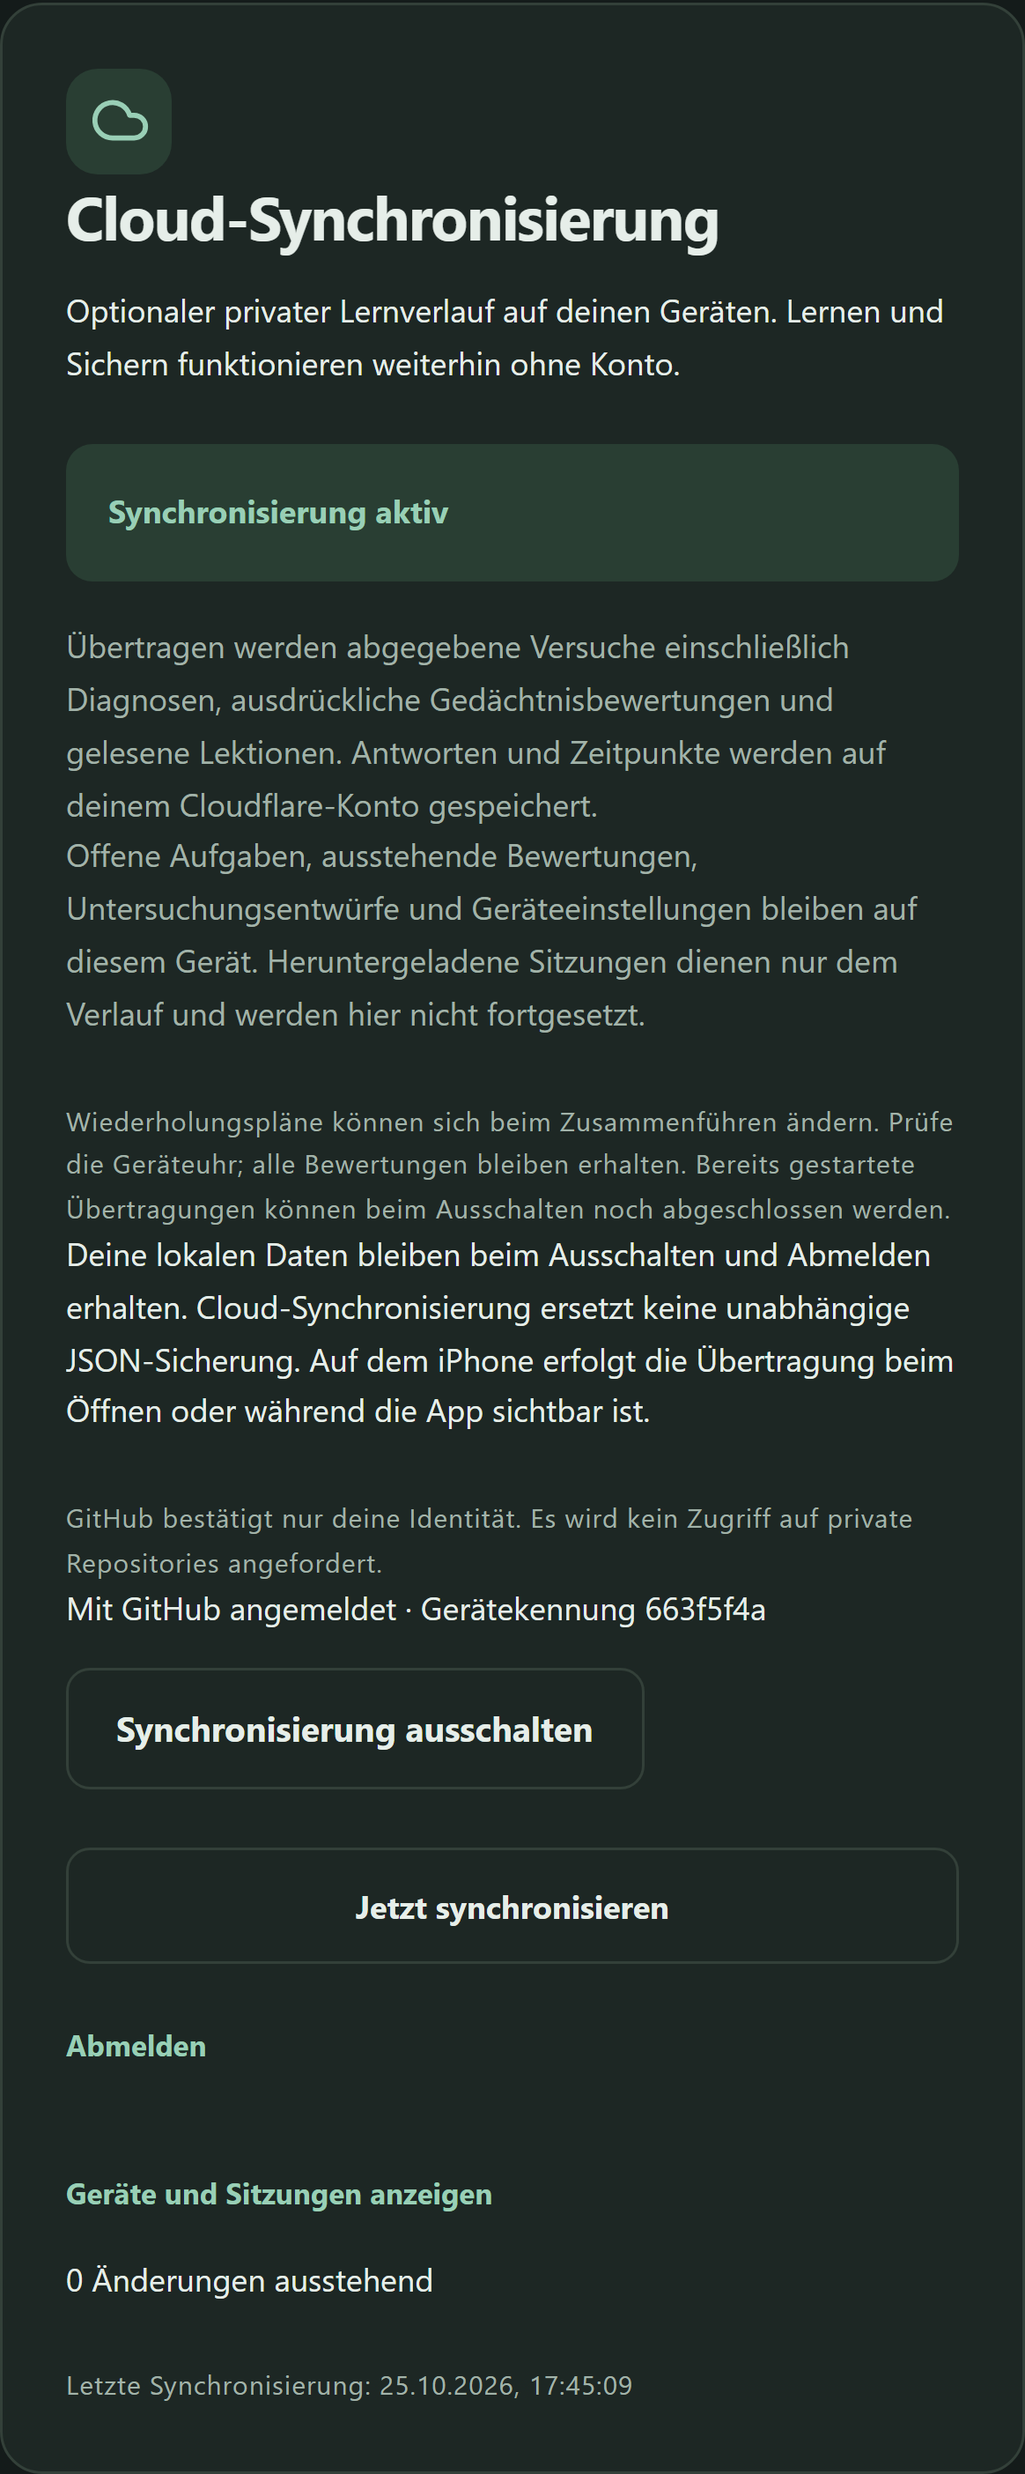
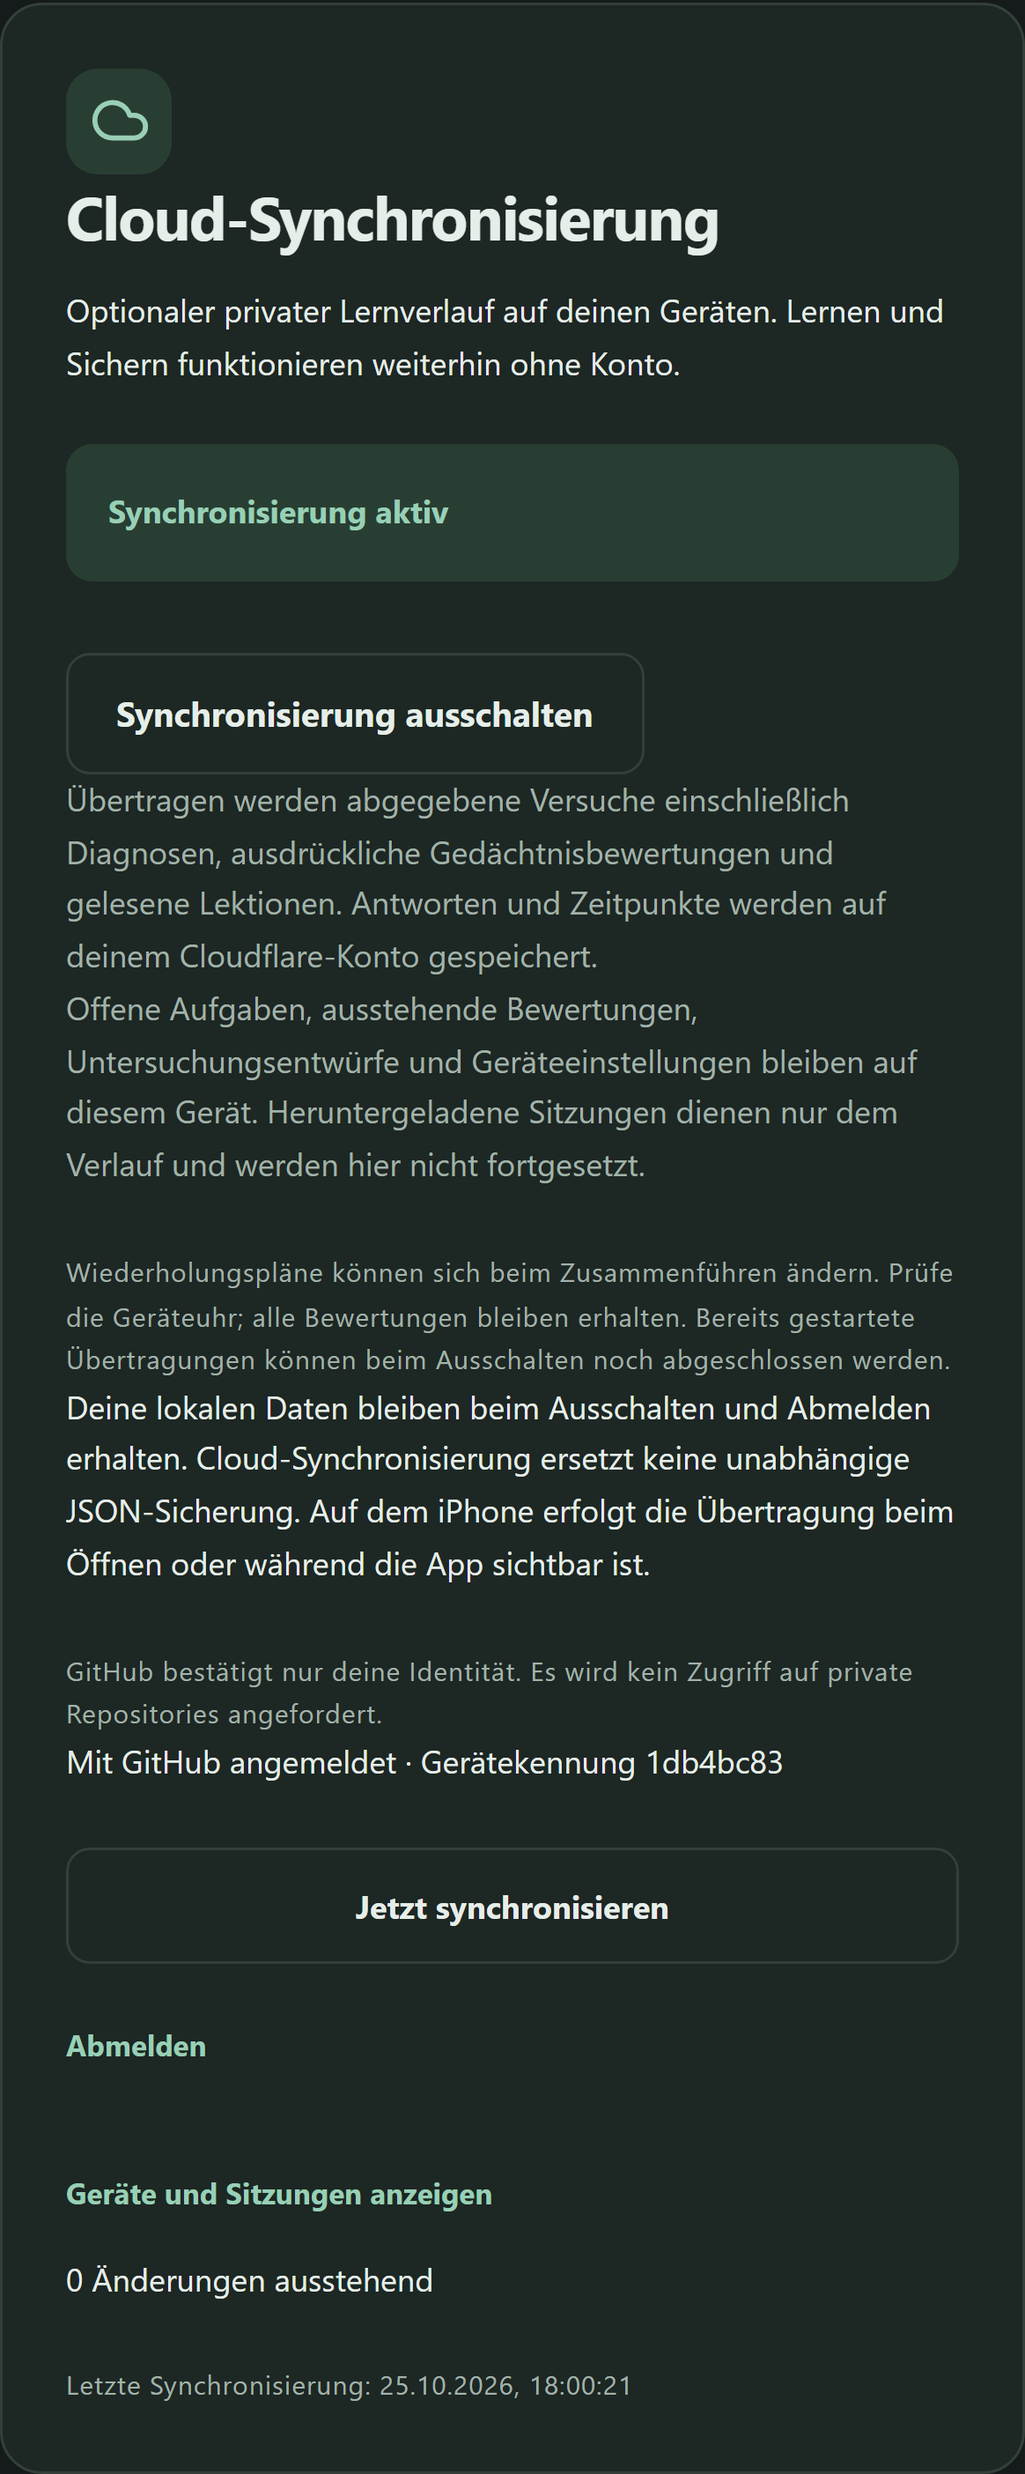
Fix offline sync opt-out and deployment configuration parsing

Changed region(s): [[0.0619, 0.2479, 0.9278, 0.7436], [0.5567, 0.9605, 0.6186, 0.9915], [0.5876, 0.7126, 0.6186, 0.7436]]

diff --git a/tests/cloud-e2e/sync.spec.ts b/tests/cloud-e2e/sync.spec.ts
@@ -24,6 +24,41 @@ async function enable(page: Page) {
   await page.getByRole('button', { name: 'Synchronisierung einschalten' }).click()
   await expect(page.getByText(/Letzte Synchronisierung:/)).toBeVisible()
 }
+test('disables queued synchronization after an offline reopen without requiring a session response', async ({
+  page,
+  context,
+}) => {
+  await login(page)
+  await enable(page)
+  await page.goto('./#/ueben?trainer=dc&code=000000')
+  await expect(page.getByText('Offline bereit', { exact: true })).toBeVisible({ timeout: 20000 })
+  await context.setOffline(true)
+  await page.getByRole('button', { name: 'Rechenrunde starten' }).click()
+  await page.getByLabel('Deine Antwort in A').fill('10 mA')
+  await page.getByRole('button', { name: 'Antwort prüfen' }).click()
+  await expect(page.getByRole('button', { name: 'Nächste Aufgabe' })).toBeVisible()
+  await page.goto('./#/einstellungen')
+  await page.reload()
+  await expect(
+    page.getByText('Offline – Änderungen werden später übertragen', { exact: true }),
+  ).toBeVisible()
+  await page.getByRole('button', { name: 'Synchronisierung ausschalten' }).click()
+  await expect(page.getByText('Nur lokal gespeichert', { exact: true })).toBeVisible()
+  const uploads: string[] = []
+  page.on('request', (request) => {
+    if (request.method() === 'POST' && new URL(request.url()).pathname === '/api/v1/events')
+      uploads.push(request.url())
+  })
+  await page.clock.install()
+  await context.setOffline(false)
+  await page.clock.runFor(2500)
+  expect(uploads).toEqual([])
+  await page.reload()
+  await expect(page.getByText('Nur lokal gespeichert', { exact: true })).toBeVisible()
+  await expect(page.getByText(/1 Änderungen ausstehend/)).toBeVisible()
+  await expect(page.getByRole('button', { name: 'Synchronisierung einschalten' })).toBeDisabled()
+})
+
 test('an expired browser session offers login again and preserves local data and consent', async ({
   page,
 }) => {
@@ -76,13 +111,11 @@ test('offline attempt uploads on reconnect and a second browser restores it with
     fullPage: true,
     animations: 'disabled',
   })
-  await page
-    .locator('.cloud-card')
-    .screenshot({
-      path: `.cache/cloud-card-${info.project.name}-dark.png`,
-      animations: 'disabled',
-      style: '.topbar,.mobile-nav,.skip-link{visibility:hidden!important}',
-    })
+  await page.locator('.cloud-card').screenshot({
+    path: `.cache/cloud-card-${info.project.name}-dark.png`,
+    animations: 'disabled',
+    style: '.topbar,.mobile-nav,.skip-link{visibility:hidden!important}',
+  })
   const second = await browser.newContext({ viewport: { width: 390, height: 844 } })
   try {
     const restored = await second.newPage()

diff --git a/tests/unit/deployment-config.test.ts b/tests/unit/deployment-config.test.ts
@@ -1,0 +1,60 @@
+import { mkdtemp, mkdir, readFile, writeFile } from 'node:fs/promises'
+import { resolve } from 'node:path'
+import { spawnSync } from 'node:child_process'
+import { expect, it } from 'vitest'
+
+const script = resolve('scripts/production-config.mjs')
+const synthetic = {
+  CLOUDFLARE_DATABASE_ID: '60000000-0000-4000-8000-000000000001',
+  APP_ORIGIN: 'https://voltwise.test',
+  OWNER_GITHUB_ID: '123456',
+  GITHUB_CLIENT_ID: 'test-client',
+}
+async function fixture() {
+  await mkdir('.cache', { recursive: true })
+  const path = await mkdtemp(resolve('.cache/deployment-test-'))
+  const template = await readFile('wrangler.jsonc', 'utf8')
+  await writeFile(resolve(path, 'wrangler.jsonc'), template)
+  return { path, template }
+}
+it('generates an isolated production configuration from the actual commented/trailing-comma JSONC template', async () => {
+  const { path, template } = await fixture()
+  expect(template).toContain('//')
+  expect(template).toMatch(/,\s*[}\]]/)
+  const result = spawnSync(process.execPath, [script], {
+    cwd: path,
+    env: { ...process.env, ...synthetic },
+    encoding: 'utf8',
+    windowsHide: true,
+  })
+  expect(result.status, result.stderr).toBe(0)
+  const output = JSON.parse(await readFile(resolve(path, 'wrangler.production.jsonc'), 'utf8'))
+  expect(output.vars).toEqual({
+    APP_ORIGIN: synthetic.APP_ORIGIN,
+    OWNER_GITHUB_ID: synthetic.OWNER_GITHUB_ID,
+    GITHUB_CLIENT_ID: synthetic.GITHUB_CLIENT_ID,
+  })
+  expect(output.d1_databases[0].database_id).toBe(synthetic.CLOUDFLARE_DATABASE_ID)
+  expect(output.assets.run_worker_first).toEqual(['/api/*'])
+  expect(output.vars).not.toHaveProperty('GITHUB_CLIENT_SECRET')
+})
+it('rejects malformed JSONC and insecure origins before writing any production configuration', async () => {
+  const { path } = await fixture()
+  for (const testCase of [
+    { template: '{"broken": ', vars: {} },
+    {
+      template: await readFile('wrangler.jsonc', 'utf8'),
+      vars: { APP_ORIGIN: 'http://unsafe.test' },
+    },
+  ]) {
+    await writeFile(resolve(path, 'wrangler.jsonc'), testCase.template)
+    const result = spawnSync(process.execPath, [script], {
+      cwd: path,
+      env: { ...process.env, ...synthetic, ...testCase.vars },
+      encoding: 'utf8',
+      windowsHide: true,
+    })
+    expect(result.status).not.toBe(0)
+    await expect(readFile(resolve(path, 'wrangler.production.jsonc'))).rejects.toThrow()
+  }
+})

diff --git a/src/features/settings/CloudSync.tsx b/src/features/settings/CloudSync.tsx
@@ -103,17 +103,18 @@ export function CloudSync() {
   }, [state?.error])
   const enabled = !!state?.enabled
   const activeError = error || storageError || state?.error
-  const status = !enabled
-    ? 'Nur lokal gespeichert'
-    : !online
-      ? 'Offline – Änderungen werden später übertragen'
-      : syncing
-        ? 'Synchronisierung läuft …'
-        : activeError
-          ? 'Synchronisierung fehlgeschlagen'
-          : session && !session.authenticated
-            ? 'Anmeldung erforderlich'
-            : 'Synchronisierung aktiv'
+  const status =
+    !cloudAvailable || !enabled
+      ? 'Nur lokal gespeichert'
+      : !online
+        ? 'Offline – Änderungen werden später übertragen'
+        : syncing
+          ? 'Synchronisierung läuft …'
+          : activeError
+            ? 'Synchronisierung fehlgeschlagen'
+            : session && !session.authenticated
+              ? 'Anmeldung erforderlich'
+              : 'Synchronisierung aktiv'
   return (
     <section className="card settings-card cloud-card" aria-labelledby="cloud-title">
       <span className="small-icon sage">
@@ -127,6 +128,11 @@ export function CloudSync() {
       <p className="storage-status" role="status">
         <strong>{status}</strong>
       </p>
+      {enabled && (
+        <button className="button button-outline" onClick={() => void action(() => disableSync())}>
+          Synchronisierung ausschalten
+        </button>
+      )}
       <p className="muted">
         Übertragen werden abgegebene Versuche einschließlich Diagnosen, ausdrückliche
         Gedächtnisbewertungen und gelesene Lektionen. Antworten und Zeitpunkte werden auf deinem
@@ -183,15 +189,7 @@ export function CloudSync() {
           ) : (
             <>
               <p>Mit GitHub angemeldet · Gerätekennung {session.deviceId?.slice(0, 8)}</p>
-              {enabled ? (
-                <button
-                  className="button button-outline"
-                  disabled={busy}
-                  onClick={() => void action(() => disableSync())}
-                >
-                  Synchronisierung ausschalten
-                </button>
-              ) : (
+              {!enabled && (
                 <>
                   <label className="cloud-consent">
                     <input

diff --git a/docs/VERIFICATION.md b/docs/VERIFICATION.md
@@ -4,22 +4,22 @@
 
 Base: `3df9f4caa03874a763335dd73bd9256507eed8ed`, the published correction on `codex/advanced-diagnostics-v06`. PR #4 and #5 remain open and unmerged. `feat/secure-sync-v07` is stacked on the corrected v0.6 branch; no old-main implementation, history rewrite, private-data-repository change or production deployment is included.
 
-Environment: Windows, Node 24.14.1, pnpm 11.25.0 and Playwright 1.64.1/Chromium from `.cache/playwright`. Added pinned `oauth4webapi@3.8.8`, Wrangler 4.152.0, stable Miniflare 4.20260730.0 and Worker types 5.20261025.1. Miniflare uses its supported 2026-07-30 compatibility date; production Wrangler config uses 2026-10-25. No real provider credentials or production acceptance are inferred from the local runtime.
+Environment: Windows, Node 24.14.1, pnpm 11.25.0 and Playwright 1.64.1/Chromium from `.cache/playwright`. Added pinned `oauth4webapi@3.8.8`, Wrangler 4.152.0, stable Miniflare 4.20260730.0 and Worker types 5.20261025.1 and the deployment-only `jsonc-parser@3.3.1`. Miniflare uses its supported 2026-07-30 compatibility date; production Wrangler config uses 2026-10-25. No real provider credentials or production acceptance are inferred from the local runtime.
 
-| Required check        | Result                                                                                                    |
-| --------------------- | --------------------------------------------------------------------------------------------------------- |
-| `pnpm lint`           | Passed, zero warnings                                                                                     |
-| `pnpm typecheck`      | Passed                                                                                                    |
-| `pnpm test`           | Passed: 179 existing/domain/IndexedDB checks plus 18 Worker/D1 and three-device checks                    |
-| `pnpm build`          | Passed: local-only PWA; 35 packaged precache entries                                                      |
-| `pnpm test:e2e`       | Passed: 70 cases, comprising 66 local-only cases and four synchronized browser cases; no skips on Windows |
-| `pnpm test:e2e:cloud` | Four cases passed on desktop/Chromium phone emulation                                                     |
+| Required check        | Result                                                                                                   |
+| --------------------- | -------------------------------------------------------------------------------------------------------- |
+| `pnpm lint`           | Passed, zero warnings                                                                                    |
+| `pnpm typecheck`      | Passed                                                                                                   |
+| `pnpm test`           | Passed: 181 domain/IndexedDB/deployment checks plus 18 Worker/D1 and three-device checks                 |
+| `pnpm build`          | Passed: local-only PWA; 35 packaged precache entries                                                     |
+| `pnpm test:e2e`       | Passed: 72 cases, comprising 66 local-only cases and six synchronized browser cases; no skips on Windows |
+| `pnpm test:e2e:cloud` | Six cases passed on desktop/Chromium phone emulation                                                     |
 
 Worker checks execute the bundled production handler on real local workerd and SQLite-backed D1. GitHub is the only simulated provider boundary. They validate actual S256 verifier/challenge exchange and exact callback, HttpOnly/Secure/SameSite cookies, missing/wrong/consumed/expired state, unauthorized stable IDs, broad scopes, missing configuration, expired sessions, sticky revocation, logout, CSRF/Origin, identical concurrent uploads, changed-UUID-payload rollback, review/session references, unsupported versions, owner isolation even with a foreign owner's otherwise valid session token, size limits, rate limits and safe backend failures. D1 migration SQL is actually applied, including foreign keys/triggers; the API is not replaced with an in-memory event mock.
 
 Three independent named IndexedDB databases simulate scenarios A–F against that Worker/D1: local-before-network work, independent offline attempts, diagnostic traces, concurrent explicit reviews, severe clock skew, acknowledgment loss, idempotent retry, third-device restore and a previous schema-2 installation. Assertions preserve original event payloads and compare derived schedules. They also exercise quota/storage transaction rollback, unchanged cursors on unsupported/corrupt downloads, owner links, version-3 backup round trips, and a deliberately transferred old pending rating completed on a different device. No remote active session or draft is manufactured. The v0.6 fixture is synthetic and declared independently from the current Dexie schema.
 
-Browser tests serve the synchronized root PWA and `/api/*` together from a loopback test Worker, with real D1 and session cookies. They operate offline, reload an unrated answer, authenticate through a synthetic GitHub redirect, consent by keyboard, upload, restore a second browser, export history, list sessions/devices, sign out without data loss, rate offline, reconnect automatically and reauthenticate after session expiry. They inspect Cache Storage to exclude API responses and verify an offline API fetch cannot fall back to the cached shell. Pages tests assert no API requests, both themes and 320/375/390/430 px widths. Existing sixteen Windows diagram baselines pass unchanged; full-page screenshot files generated by older tests are review artifacts and do not require replacing historical documentation images.
+Browser tests serve the synchronized root PWA and `/api/*` together from a loopback test Worker, with real D1 and session cookies. They operate offline, reload an unrated answer, authenticate through a synthetic GitHub redirect, consent by keyboard, upload, restore a second browser, export history, list sessions/devices, sign out without data loss, rate offline, reconnect automatically and reauthenticate after session expiry. An offline-reopen regression disables the persistent queue without a reachable session response and proves reconnect does not upload after opt-out. A deployment regression runs the configuration generator against the actual commented/trailing-comma JSONC template in an isolated scratch folder, and rejects malformed/insecure input without creating output. They inspect Cache Storage to exclude API responses and verify an offline API fetch cannot fall back to the cached shell. Pages tests assert no API requests, both themes and 320/375/390/430 px widths. Existing sixteen Windows diagram baselines pass unchanged; full-page screenshot files generated by older tests are review artifacts and do not require replacing historical documentation images.
 
 Scope limits: no live Cloudflare/D1/OAuth account configuration, real OAuth interaction, physical iPhone Safari/Home Screen, Windows/macOS installation/update acceptance, Cloudflare billed CPU/load/free-quota benchmark, independent penetration test or production rollback drill. Incomplete local sessions/drafts/preferences intentionally do not synchronize. D1 restore behind acknowledged cursors requires deliberate administrative recovery; it is not silently repaired by wiping clients. See [deployment prerequisites](CLOUD_DEPLOYMENT.md), [protocol](SYNC_PROTOCOL.md), [review ordering](SYNC_DESIGN.md) and [migration/recovery](DATA_MIGRATION.md).
 

diff --git a/docs/SYNC_DESIGN.md b/docs/SYNC_DESIGN.md
@@ -29,7 +29,7 @@ Unsupported scheduler revisions, invalid references and immutable conflicts stop
 
 Visible app startup, foreground return, connectivity restoration, new queued learning activity and explicit manual synchronization trigger a debounced pass. A visible, enabled app checks at most every two minutes after success to discover another device's work. Failures retry with exponential delay and jitter, capped at five minutes. Each pass bounds work; hidden documents do not poll. Browser locks coalesce tabs where available; database uniqueness/idempotent transport protects retries regardless. No always-on iOS/background-service-worker execution is assumed. System timer throttling may delay open-app retries; foreground/manual sync remains available.
 
-The interface distinguishes opt-out, running, offline, pending counts, errors and a timestamp recorded only after validated server acceptance plus a complete download pass with an empty outbox. Merely queuing or starting a request cannot create a successful status. Logout/disabling preserves local records and queued work. No user-data deletion API is exposed; deliberate server deletion remains an authenticated administrative task with independent backups.
+The interface distinguishes opt-out, running, offline, pending counts, errors and a timestamp recorded only after validated server acceptance plus a complete download pass with an empty outbox. Merely queuing or starting a request cannot create a successful status. Logout/disabling preserves local records and queued work. The local disable control remains available after an offline reopen even when the session endpoint cannot be reached; reconnect cannot re-enable consent. No user-data deletion API is exposed; deliberate server deletion remains an authenticated administrative task with independent backups.
 
 ## Trust and deployment
 

diff --git a/CHANGELOG.md b/CHANGELOG.md
@@ -7,7 +7,7 @@
 - Added atomic local outbox writes, safe historical discovery, startup/foreground/reconnect/activity/manual triggers and bounded visible-app retry. Local learning and independent JSON backups remain available without cloud.
 - Added deterministic FSRS replay from all preserved explicit ratings, using authoritative acceptance order and documented clock-skew clamping. Original scheduling history is never overwritten.
 - Added additive Dexie migration 3 and backup format 3 with schema-1/2 and backup-1/2 compatibility, generated DC IDs, pending reviews and diagnostic drafts preserved.
-- Added German consent/status/login/device controls, local-only Pages builds, a separate root Cloudflare PWA build, API cache exclusion, deployment/migration/security guides and a manual deployment workflow. No live Cloudflare deployment or parent PR merge was performed.
+- Added German consent/status/login/device controls, local-only Pages builds, a separate root Cloudflare PWA build, API cache exclusion, deployment/migration/security guides and a manual deployment workflow. The local opt-out remains available without a reachable session; production configuration correctly parses JSONC comments/trailing commas. No live Cloudflare deployment or parent PR merge was performed.
 - Added local Worker/D1 security and three-device convergence tests, v0.6 fixtures, acknowledgment-loss and storage/quota cases, plus browser offline/reconnect/restoration flows with synthetic GitHub identity. Physical-device/live-provider acceptance remains outstanding.
 
 ## 0.6.0 — 2026-10-25
